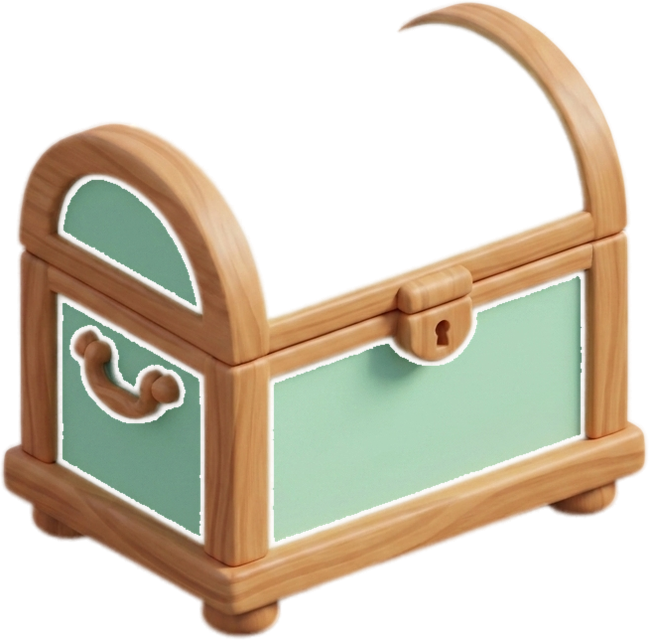
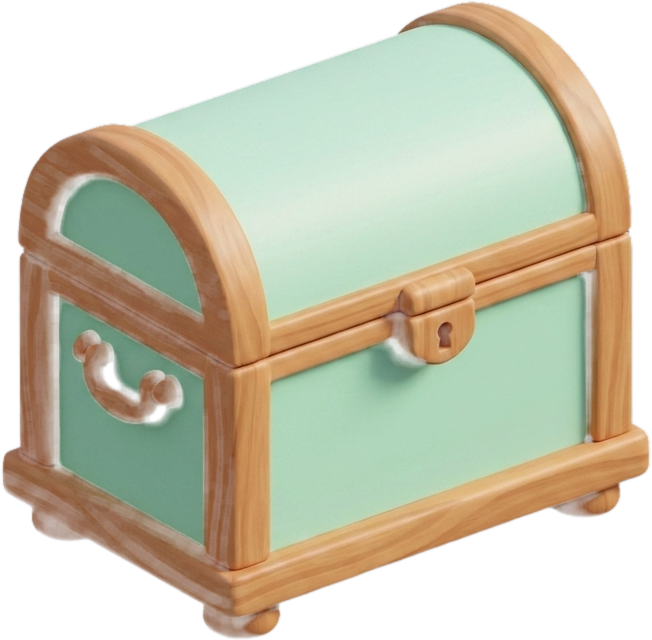
Re-cut chest with color-key — solid panels, no holes or seams

diff --git a/sw.js b/sw.js
@@ -1,4 +1,4 @@
-const CACHE = 'lila-v12';
+const CACHE = 'lila-v13';
 const IMG_ASSETS = [
   './assets/lila/hero.png', './assets/lila/celebrate.png', './assets/lila/celebrate_loop.mp4', './assets/lila/sleep.png',
   './assets/lila/world.png', './assets/lila/world_asleep.png',